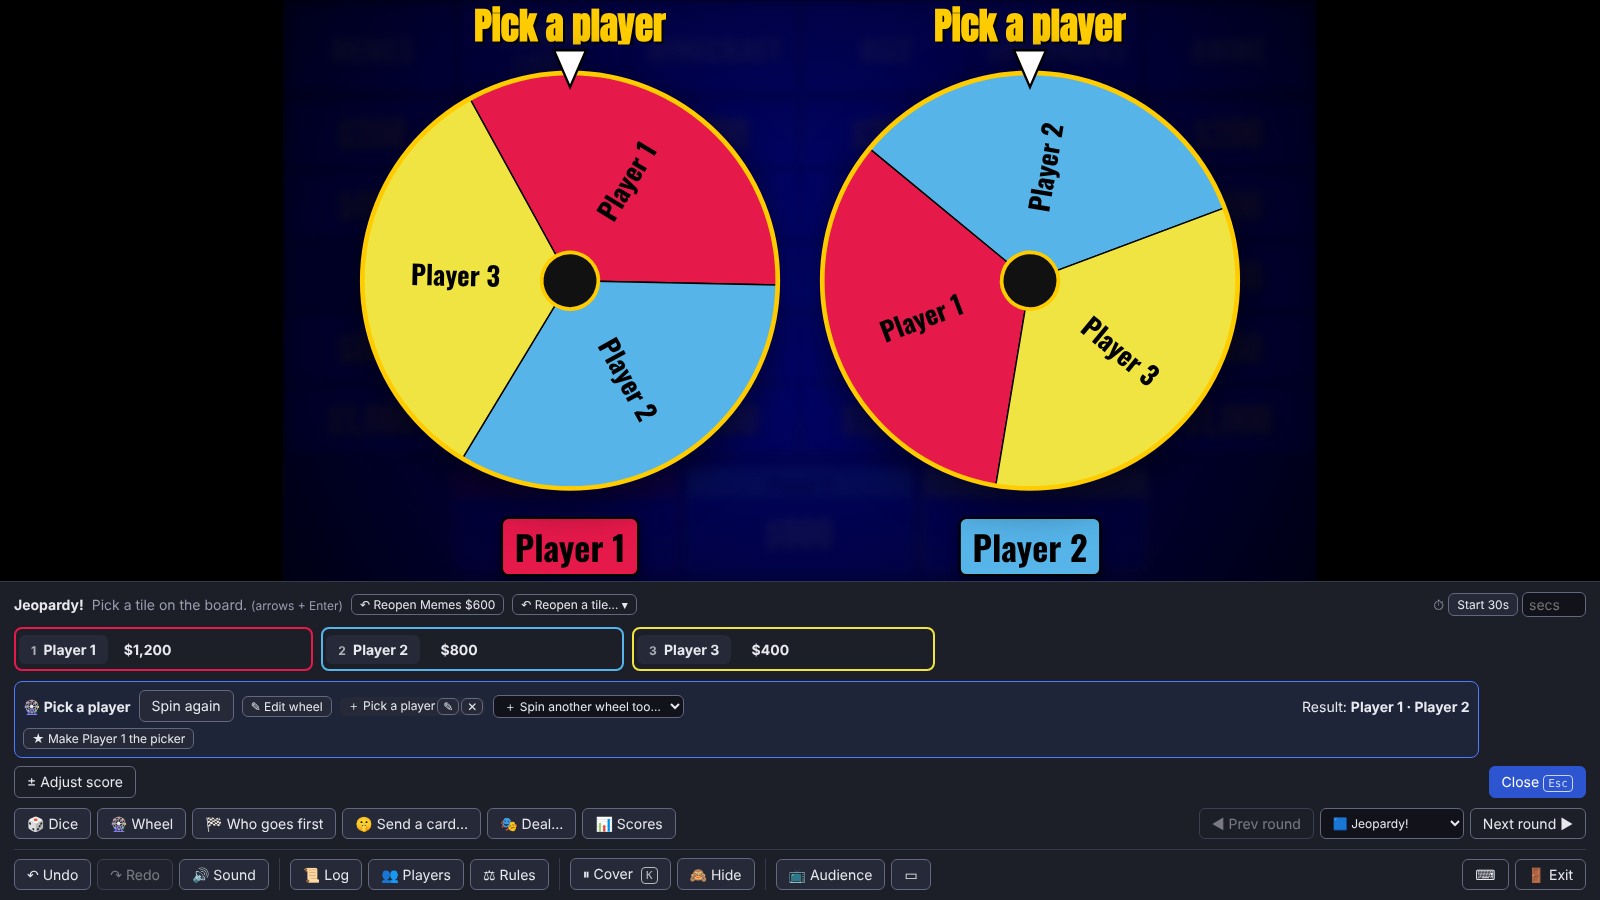
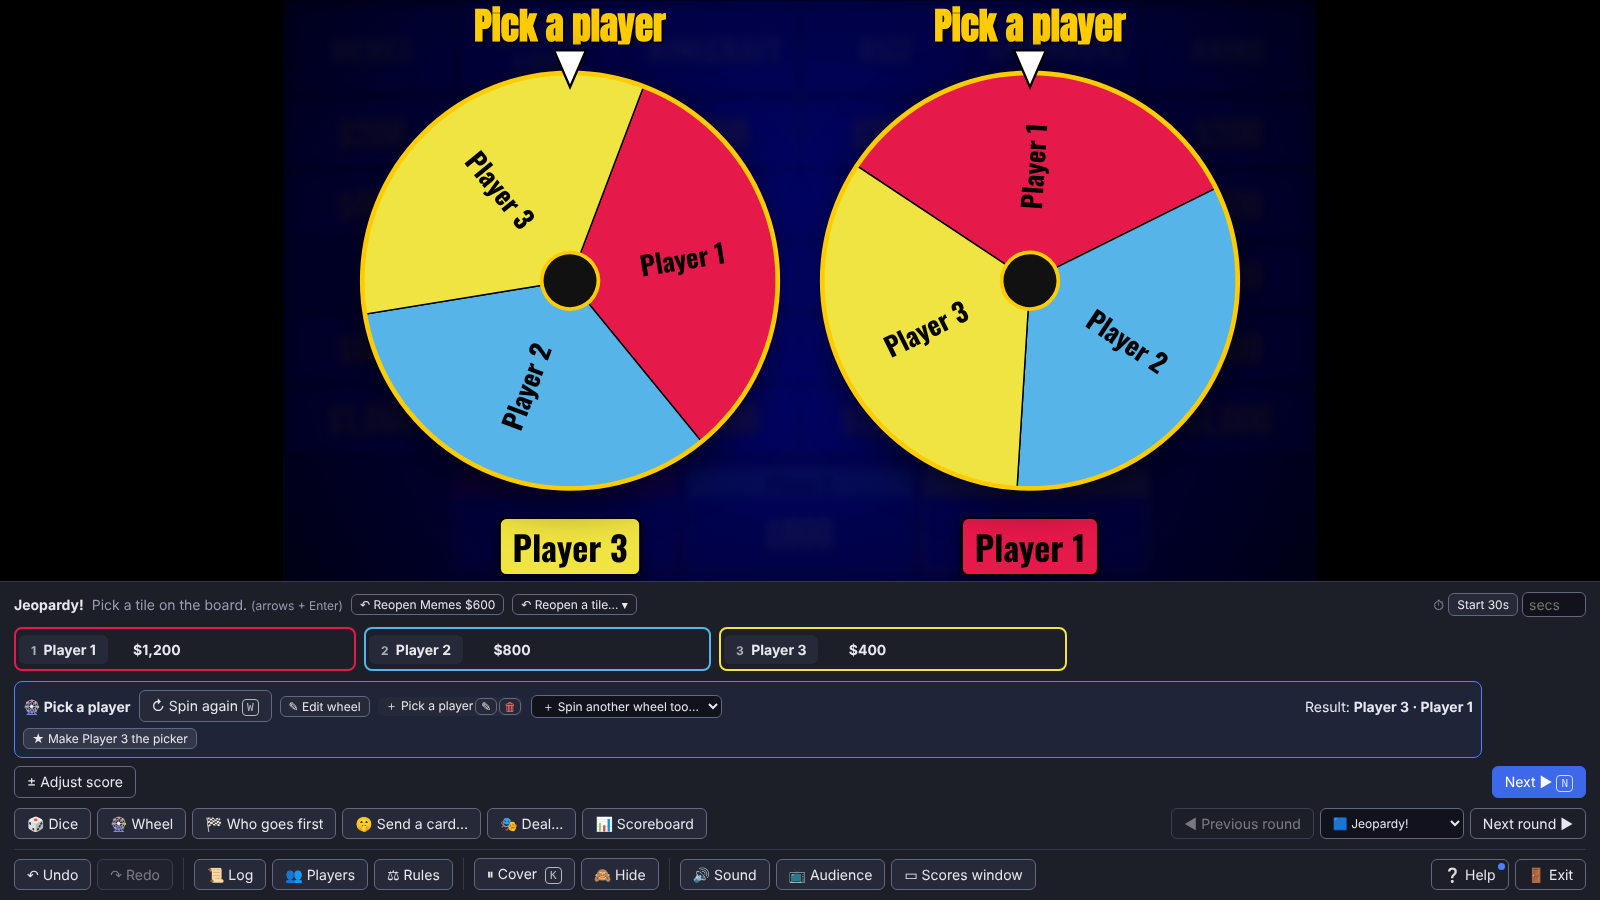
README pictures of the app as it is now (the blue button only Next or Reveal, the bar's groups, ❔ Help); the screenshot script clicks 🎡 Spin! and the leaving question's Go to … ▶
Claude-Session: https://claude.ai/code/session_018ZD85mMPXmGHQpZ9AwbZdd

diff --git a/CHANGELOG.md b/CHANGELOG.md
@@ -104,6 +104,7 @@ in plain words for the people who make and host games. Anything committed but no
 - **💾 Save says whether the file is up to date**: it reads **💾 Save •** while the game has changes no file has yet (with “not saved as a file” beside it where the header has room), and its tooltip says when it was last saved as a file (“Last saved as a file at 2:05 PM”, or “Not saved as a file yet”). In a browser the header's note says what it is, **✓ Kept in this browser** (“(💾 Save makes a file)” after it where the header has room; it said ✓ Autosaved, which read as if a file was kept); the desktop app's stays ✓ Autosaved · file 2:05. New and Open… no longer ask about the sample game as it came: it's kept in Recent games, with ↶ Reopen previous game. Changed, it asks as before.
 - **📂 Open… is always one window**, “📂 Open a game”: Recent games, then in the desktop app **Your saves (BrainrotSaves)** newest first with their date and size and 📂 Saves folder (they were a second window behind BrainrotSaves…), and at its foot **Browse for a game file…** (it was Browse…; blue when there's nothing listed) “or drop a game file anywhere on the editor” (a file dropped on the window opens and the window goes). A browser with no recent games opens the window too, instead of going straight to the file picker. **Ctrl+O** opens it (it was the browser's own Open); on the game screen and in a player file it says where Open… is instead of opening the browser's. ↑ / ↓ go from game to game and Enter opens one; Delete on a recent game asks to delete it; a right-click or Shift+F10 gives its menu (▶ Open, 📁 Show in folder, 🗑 Delete from Recent games…); a recent game's 🗑 sits at its row's far end, red.
 - **🎨 Theme: the settings start higher up.** Sharing folds into one line, **▸ Share or bring in a theme · file, code, another game** (this computer remembers it open; a theme file dropped on the editor opens it), and My themes with none saved is one line, “None yet: 💾 Save as new theme… keeps this look for any game.” **A click on the preview finds its setting**: a value, a tile, a category, a score plate, the score bar or the board opens its section and flashes the setting (“Click the board to find its setting”); on a clue, the Final's question or a slides round, the text finds Clue text and the rest of the slide Tiles & slide background. **Glow size** sits beside the Tile glow tick in Colors (it was in Tiles, with a note to turn the glow on in Colors first).
+- The README's pictures show the app as it is now: the blue button that's only Next or Reveal, the game screen's bar in its groups with ❔ Help, the wheel's box with its own ↻ Spin again, and the editor's header with 💾 Save's dot and ❔ Help.
 
 ### Fixed
 
